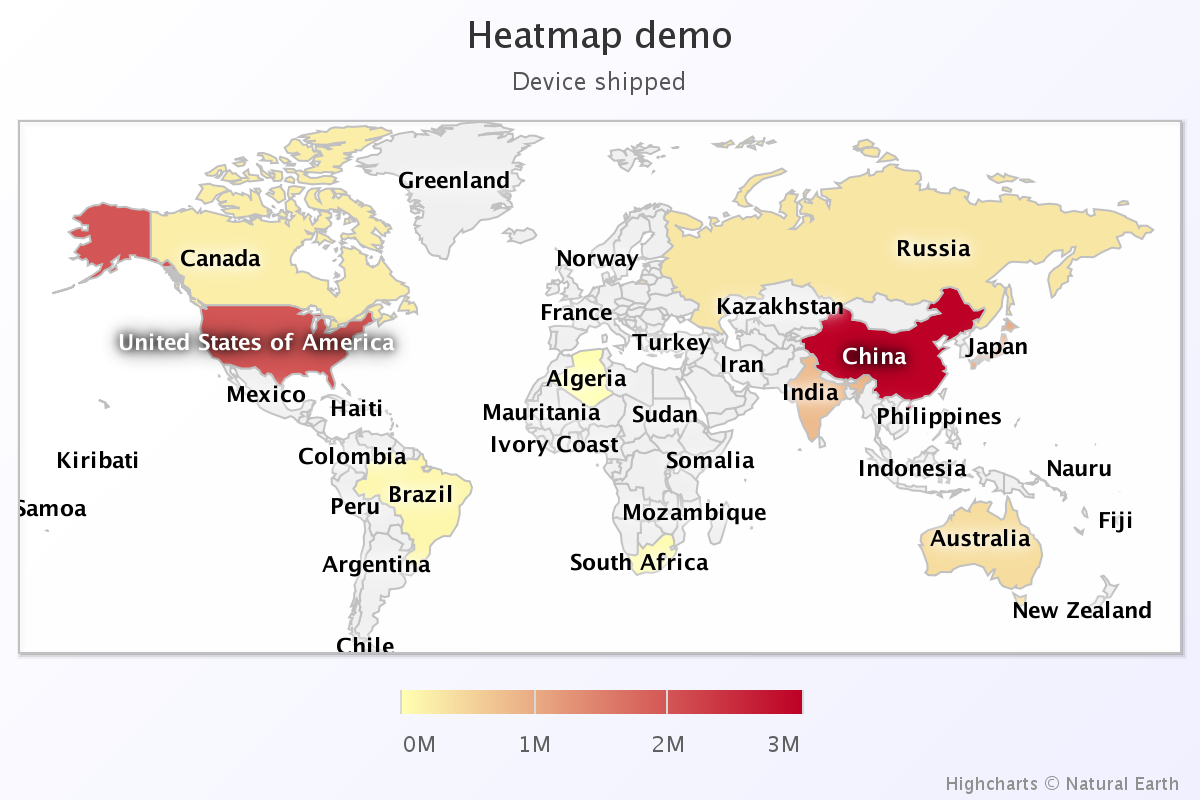
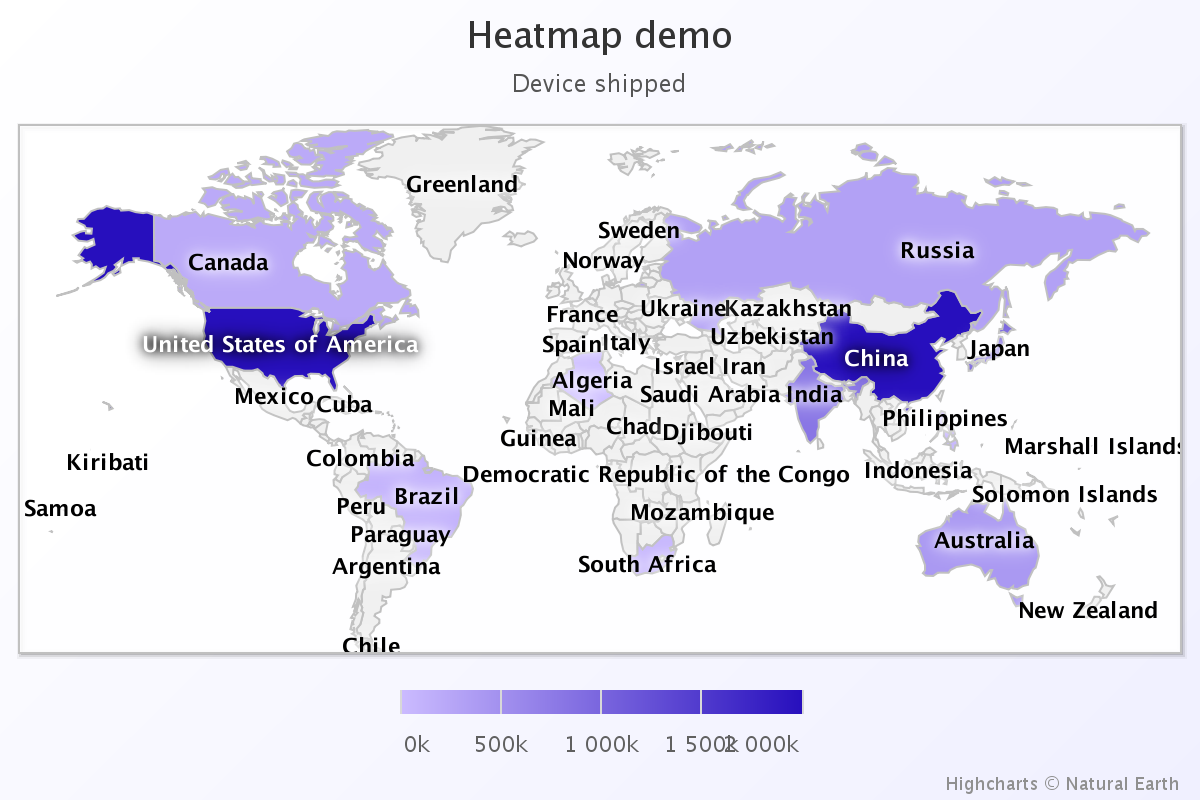
Add a tab control to the sidebar.

diff --git a/index.html b/index.html
@@ -20,6 +20,7 @@
 
 <div id="wrapper">
   <div id="sidebar">
+    <!--
     <fieldset>
       <legend>Map</legend>
       <input type="radio" name="map" id="chinaMapID" value="china"><label>China</label>
@@ -28,10 +29,6 @@
     </fieldset>
     <fieldset id="parameters">
       <legend>Parameters</legend>
-      <!--
-        <label>Type</label><input type="radio" name="type" id="linearID" value="linear" checked="true">Linear
-        <input type="radio" name="type" id="logarithmicID" value="logarithmic">logarithmic<br/>
-        -->
         <label>Title</label><input type="text" value="Heatmap demo" id="titleID"><br/>
         <label>Subtitle</label><input type="text" value="Device Shipped" id="subtitleID"><br/>
         <label>Serial name</label><input type="text" value="Device Data" id="serialNameID"><br/>
@@ -47,9 +44,50 @@
         </textarea>
     </fieldset>
     <input type="button" id="renderCSV" value="Render map"/>
+    -->
+    <div id="tabs-container">
+      <ul class="tabs-menu">
+        <li class="current"><a href="#tab-1">Param</a></li>
+        <li><a href="#tab-2">Data</a></li>
+      </ul>
+      <div class="tab">
+        <div id="tab-1" class="tab-content">
+          <fieldset>
+            <legend>Map</legend>
+            <input type="radio" name="map" id="chinaMapID" value="china"><label>China</label><br/>
+            <input type="radio" name="map" id="asiaMapID" value="asia"><label>Asia</label><br/>
+            <input type="radio" name="map" id="worldMapID" value="world"><label>World</label><br/>
+          </fieldset>
+          <fieldset id="parameters">
+            <legend>Parameters</legend>
+            <!--
+              <label>Type</label><input type="radio" name="type" id="linearID" value="linear" checked="true">Linear
+              <input type="radio" name="type" id="logarithmicID" value="logarithmic">logarithmic<br/>
+              -->
+            <label>Title</label><br/><input type="text" value="Heatmap demo" id="titleID"><br/>
+            <label>Subtitle</label><br/><input type="text" value="Device Shipped" id="subtitleID"><br/>
+            <label>Serial name</label><br/><input type="text" value="Device Data" id="serialNameID"><br/>
+            <label>Top value</label><br/><input type="number" name="topValue" id="topValueID" value="800000" oninput="maxValueID.max=topValueID.value"> <br/>
+            <label>Max value</label><br/><input type="range" name="maxValue" id="maxValueID" value="500000" min="1" max="800000" oninput="maxOutputID.value = maxValueID.value" >
+            <output name="maxValueOutput" id="maxOutputID">500000</output><br/>
+            <label>Min color</label><br/><input id="mincolor" class="jscolor" value="ffffb2"><br/>
+            <label>Max color</label><br/><input id="maxcolor" class="jscolor" value="bd0026">
+          </fieldset><br/>
+        </div>
+        <div id="tab-2" class="tab-content">
+          <fieldset class="dataGroup">
+            <legend>Paste CSV below</legend>
+        <textarea  id="dataContent" wrap="off" spellcheck='false'>
+
+        </textarea>
+          </fieldset>
+          <input type="button" id="renderCSV" value="Render map"/>
+        </div>
+      </div>
+    </div>
   </div>
   <div class="mapContainer" id="container"></div>
-</div>
+
 
 <script src="js/defaultData.js"></script>
 <script src="js/main.js" > </script>

diff --git a/css/style.css b/css/style.css
@@ -16,38 +16,51 @@ html, body {
 }
 
 #parameters{
-  margin-top: 1em;
+//  margin-top: 1em;
 }
 #wrapper {
   margin-right: 0;
+  height:90em;
 }
 #container,
 #sidebar {
-  float:left;
+  display:table-cell;
+  vertical-align: top;
 }
 
 #sidebar{
   box-sizing: border-box;
-  margin-left: 2em;
-  margin-top:2em;
-  width: 25em;
-  height: 100%;
+  margin-left: 1em;
+  margin-top:1em;
+  width: 20em;
+  height: 40em;
 }
 .mapContainer {
-  width: 70em;
-  margin-top: 2em;
-  margin-left:3em;
+  align-content: center;
+  width: 100%;
+  margin-top: 1em;
+  margin-left:1em;
   min-height: 800px;
+}
+label{
+  ;
 }
 input{
   margin: 0.5em;
   font-size: medium;
 }
 input[type=text]{
-  width: 10em;
+  width:8em;
+}
+input[type=range]{
+  width:8em;
+}
+input.jscolor{
+  width:6em;
 }
 #renderCSV{
   font-size: large;
+  margin-top: 0.5em;
 }
 #titleID,#subtitleID,#topValueID{
   width: 12em;
@@ -62,19 +75,11 @@ input[type=text]{
 .dataDiv{
   position: relative;
 }
-.dataPre {
-/*  margin: 0.5em;
-  border: thin;
-  border-style: groove;
-  border-color: darkgray;
-*/
-  height: 95%;
 
-}
 #dataContent{
   position: relative;
   resize: none;
-  margin: 0em;
+  margin: 0;
   width: 100%;
   height: 100%;
   font-size: large;
@@ -84,4 +89,59 @@ input[type=text]{
 #renderCSV{
   font-size: large;
 }
+
+/* For Tab control */
+.tabs-menu {
+  height: 2em;
+  float: left;
+  clear: both;
+}
+
+.tabs-menu li {
+  height: 2em;
+  line-height: 2em;
+  float: left;
+  margin-right: 1em;
+  background-color: #ccc;
+  border-top: 1px solid #d4d4d1;
+  border-right: 1px solid #d4d4d1;
+  border-left: 1px solid #d4d4d1;
+}
+
+.tabs-menu li.current {
+  position: relative;
+  background-color: #fff;
+  border-bottom: 1px solid #fff;
+  z-index: 5;
+}
+
+.tabs-menu li a {
+  padding: 1em;
+  text-transform: uppercase;
+  color: #fff;
+  text-decoration: none;
+}
+
+.tabs-menu .current a {
+  color: #2e7da3;
+}
+
+.tab {
+  border: 1px solid #d4d4d1;
+  background-color: #fff;
+  float: left;
+  margin-bottom: 1em;
+  width: auto;
+}
+
+.tab-content {
+  width: 15em;
+  padding: 1em;
+  display: none;
+}
+
+#tab-1{
+  display: block;
+}
+/*Tab control end here*/
 

diff --git a/js/defaultData.js b/js/defaultData.js
@@ -1,36 +1,36 @@
-var defaultChinaCSV = `Anhui, 120000
-Beijing, 50000
-Chongqing, 150000
-Fujian, 1000
-Gansu,500
-Guangdong,30000
-Guangxi,3000
-Guizhou,400
-Hainan,100
-Hebei, 100000
-Heilongjiang,200000
-Henan,450000
-Hubei, 250000
-Hunan,70000
-Jiangsu,100000
-Jiangxi,12000
-Jilin,500
-Liaoning,10000
-Macau, 1000
-"Inner Mongol",30000
-Ningxia, 100
-Qinghai,2000
-Shaanxi, 40000
-Shandong,300000
-Shanghai,50000
-Shanxi,8000
-Sichuan,7000
-Taiwan,100
-Tianjin,5000
-Xinjiang,100
-Xizang, 100
-Yunnan, 1000
-Zhejiang,80000
+var defaultChinaCSV = `Anhui, 60875
+Beijing, 9470
+Chongqing, 3855
+Fujian, 23320
+Gansu,64992
+Guangdong,351472
+Guangxi,191631
+Guizhou,39294
+Hainan
+Hebei, 38447
+Heilongjiang,320562
+Henan,450660
+Hubei, 6501
+Hunan,32397
+Jiangsu,50861
+Jiangxi,39468
+Jilin,61704
+Liaoning,157551
+Macau
+"Inner Mongol",101789
+Ningxia, 13201
+Qinghai,116
+Shaanxi, 48372
+Shandong,389099
+Shanghai
+Shanxi,72267
+Sichuan,7559
+Taiwan
+Tianjin
+Xinjiang,6997
+Xizang
+Yunnan, 10972
+Zhejiang,41476
 `;
 var defaultAsiaCSV = `"Afghanistan",
 "Armenia",

diff --git a/js/main.js b/js/main.js
@@ -2,6 +2,15 @@
  * Author: kenthuang72@gmail.com
  */
 $(function () {
+  $(".tabs-menu a").click(function(event) {
+    event.preventDefault();
+    $(this).parent().addClass("current");
+    $(this).parent().siblings().removeClass("current");
+    var tab = $(this).attr("href");
+    $(".tab-content").not(tab).css("display", "none");
+    $(tab).fadeIn();
+  });
+
   var defaultTitle = "Heatmap demo";
   var defaultSubtitle = "Device shipped";
   var maps = {
